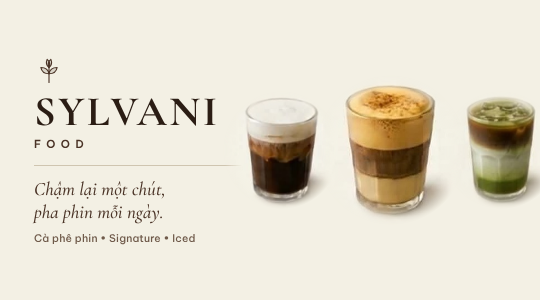
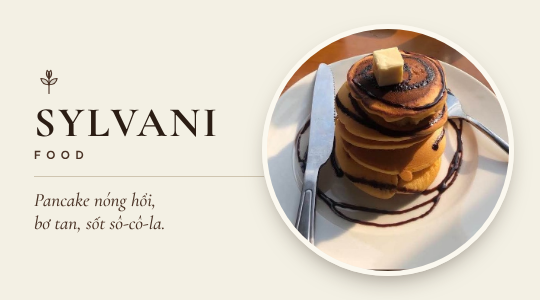
Grab: Sylvani Food cover with pancake, add square dish photo
Claude-Session: https://claude.ai/code/session_01SyFhdeCsD7mM4VkqHNxTYw

diff --git a/grab/cover.html b/grab/cover.html
@@ -9,19 +9,13 @@ h1{font-family:"Cormorant Garamond",serif;font-weight:700;font-size:42px;letter-
 .sub{font-family:"Be Vietnam Pro",sans-serif;font-weight:600;font-size:11px;letter-spacing:.5em;color:#4a3326;margin-top:4px}
 .slogan{font-family:"Cormorant Garamond",serif;font-style:italic;font-size:19px;line-height:1.2;color:#4a3326;margin-top:14px;padding-top:12px;border-top:1px solid #cfc5b0}
 .tag{font-family:"Be Vietnam Pro",sans-serif;font-size:10.5px;color:#6f5a4a;margin-top:8px;letter-spacing:.02em}
-.drinks{position:absolute;right:4px;top:0;bottom:0;width:290px;display:flex;align-items:center;justify-content:center}
-.drinks img{width:118px;height:118px;margin:0 -12px;-webkit-mask-image:radial-gradient(ellipse 50% 50% at 50% 50%,#000 72%,transparent 100%);mask-image:radial-gradient(ellipse 50% 50% at 50% 50%,#000 72%,transparent 100%)}
-.drinks img.big{width:150px;height:150px;position:relative;z-index:2}
+.photo{position:absolute;right:26px;top:24px;width:252px;height:252px;border-radius:50%;overflow:hidden;box-shadow:0 10px 24px -10px rgba(43,29,20,.55);border:5px solid #fbf8ef}
+.photo img{width:100%;height:100%;object-fit:cover}
 </style></head><body>
 <div class="text">
 <svg viewBox="0 0 48 48" fill="none" stroke="currentColor" stroke-width="1.8" stroke-linecap="round" stroke-linejoin="round"><path d="M24 44V20"/><path d="M24 30c-7 0-12-4-13-10 7 0 12 4 13 10z" fill="currentColor" fill-opacity=".15"/><path d="M24 30c7 0 12-4 13-10-7 0-12 4-13 10z" fill="currentColor" fill-opacity=".15"/><path d="M24 20c-4-3-5-8-3-13 4 3 5 8 3 13z" fill="currentColor" fill-opacity=".15"/><path d="M24 20c4-3 5-8 3-13-4 3-5 8-3 13z" fill="currentColor" fill-opacity=".15"/></svg>
 <h1>SYLVANI</h1><div class="sub">FOOD</div>
-<div class="slogan">Chậm lại một chút,<br>pha phin mỗi ngày.</div>
-<div class="tag">Cà phê phin • Signature • Iced</div>
+<div class="slogan">Pancake nóng hổi,<br>bơ tan, sốt sô-cô-la.</div>
 </div>
-<div class="drinks">
-<img src="../images/ca-phe-muoi.jpg">
-<img class="big" src="../images/ca-phe-trung.jpg">
-<img src="../images/forest-dirty-matcha.jpg">
-</div>
+<div class="photo"><img src="pancake-src.jpg"></div>
 </body></html>
